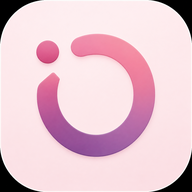
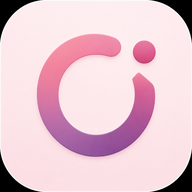
fix: corrigir espelhamento do ícone PWA v4.3.6
Ícones icon-192.png e icon-512.png estavam espelhados horizontalmente.
Aplicado FLIP_LEFT_RIGHT para restaurar orientação original (ponto sup-esq).
SW cache orina-v1 → orina-v2 para forçar refresh dos ícones.

diff --git a/index.html b/index.html
@@ -855,7 +855,7 @@ const AUTO_CALC_IDX=['CDI','SELIC','Prefixado'];
 const FORMAS_PAG=['Pix','Crédito','Débito','Débito em conta','Vale Refeição'];
 const PAGBADGE={Pix:'bs',Crédito:'bac',Débito:'bm','Débito em conta':'bpo','Vale Refeição':'bvr'};
 
-const APP_VER='4.3.5';
+const APP_VER='4.3.6';
 
 const DEF={
   meta:{version:'4.0',lastUpdated:''},

diff --git a/lari4.0.html b/lari4.0.html
@@ -855,7 +855,7 @@ const AUTO_CALC_IDX=['CDI','SELIC','Prefixado'];
 const FORMAS_PAG=['Pix','Crédito','Débito','Débito em conta','Vale Refeição'];
 const PAGBADGE={Pix:'bs',Crédito:'bac',Débito:'bm','Débito em conta':'bpo','Vale Refeição':'bvr'};
 
-const APP_VER='4.3.5';
+const APP_VER='4.3.6';
 
 const DEF={
   meta:{version:'4.0',lastUpdated:''},

diff --git a/sw.js b/sw.js
@@ -1,4 +1,4 @@
-const CACHE = 'orina-v1';
+const CACHE = 'orina-v2';
 const ASSETS = [
   '/financas/icon-192.png',
   '/financas/icon-512.png',
